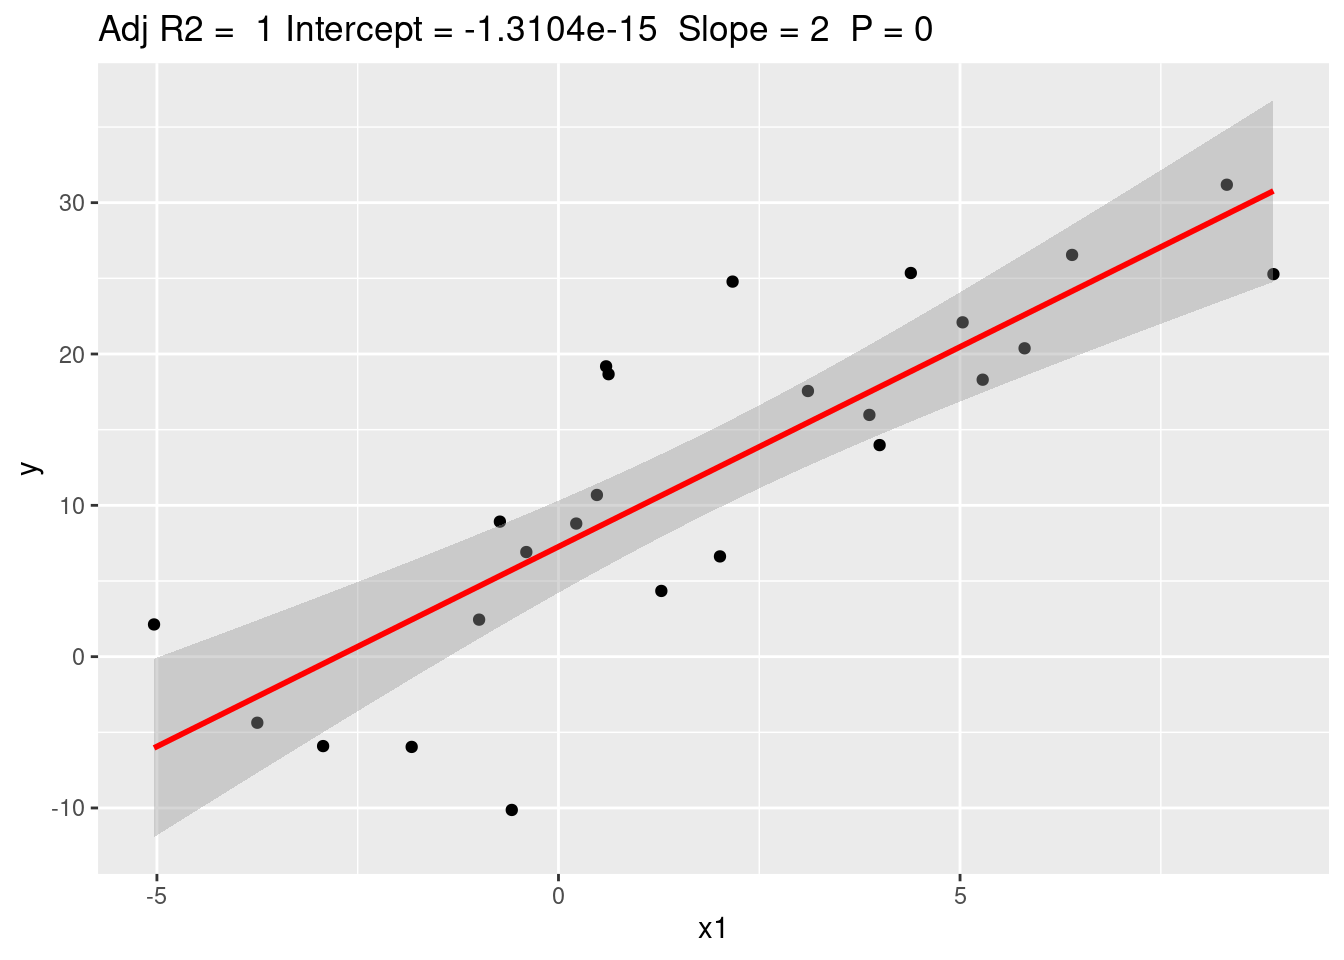
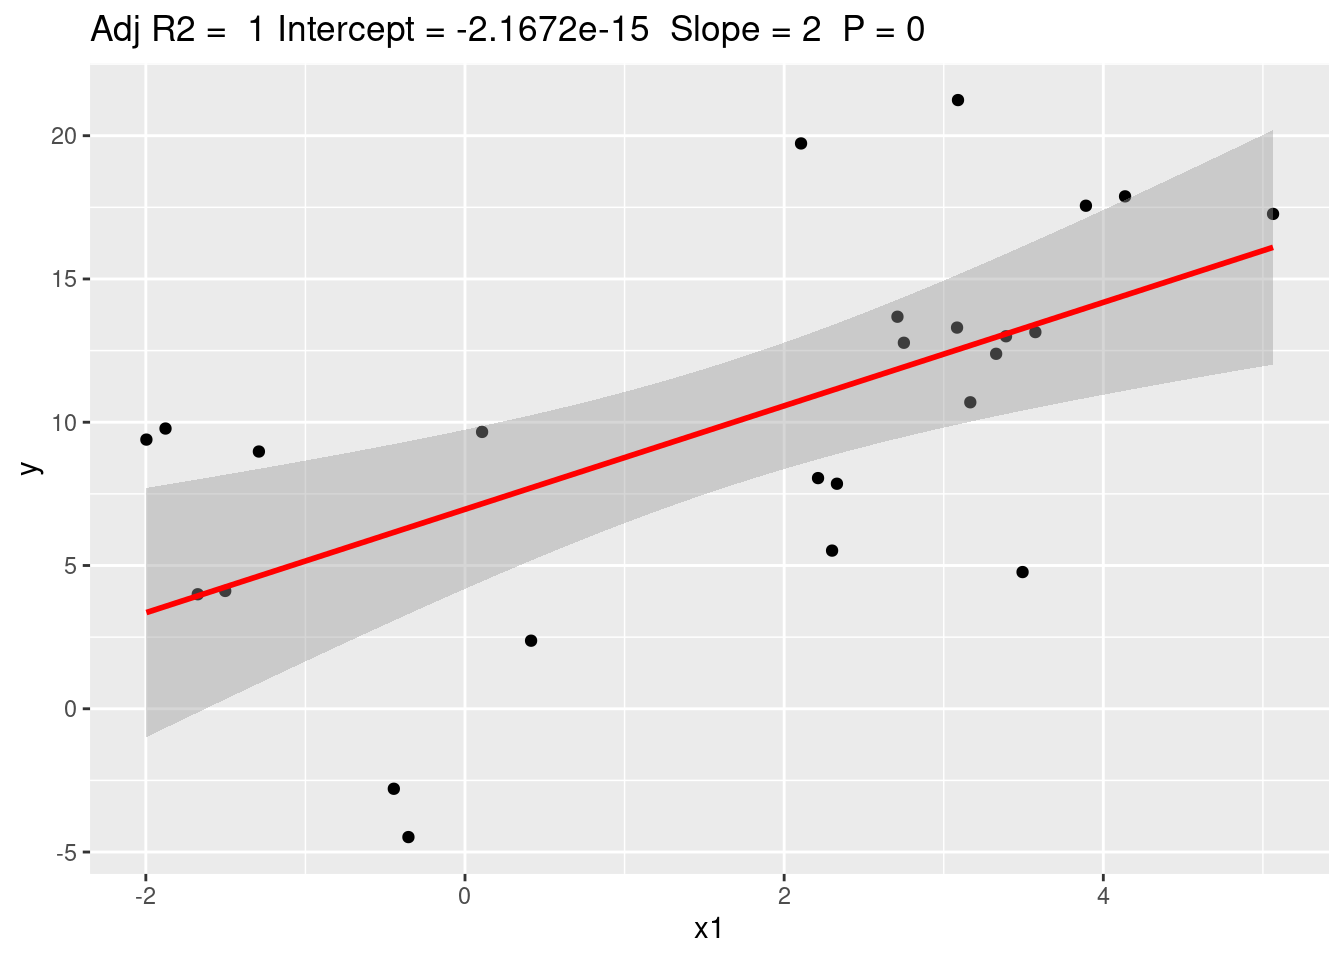
Built site for gh-pages

diff --git a/notes/index.html b/notes/index.html
@@ -272,7 +272,7 @@ ul.task-list li input[type="checkbox"] {
 
 </header>
 
-<p>This is a place to store and share some of my notes. This is still in progress, not sure how long might take me to update. <strong>Last updated at 2023-09-28 23:18:34</strong></p>
+<p>This is a place to store and share some of my notes. This is still in progress, not sure how long might take me to update. <strong>Last updated at 2023-10-03 16:18:00</strong></p>
 <p>If you find any error, please get in touch with me <a href="../index.html">here</a>.</p>
 
 
@@ -292,7 +292,7 @@ Description
 </tr>
 </thead>
 <tbody class="list">
-<tr data-index="0" data-listing-file-modified-sort="1695967048905" data-listing-reading-time-sort="1" data-listing-title-sort="Bioinformatics" data-listing-filename-sort="index.qmd">
+<tr data-index="0" data-listing-file-modified-sort="1696374980331" data-listing-reading-time-sort="1" data-listing-title-sort="Bioinformatics" data-listing-filename-sort="index.qmd">
 <td>
 <a href="../notes/bioinformatics/index.html" class="title listing-title">Bioinformatics</a>
 </td>
@@ -300,7 +300,7 @@ Description
 <span class="listing-description">Notes on Bioinformatics basics and tools</span>
 </td>
 </tr>
-<tr data-index="1" data-listing-file-modified-sort="1695967048905" data-listing-reading-time-sort="2" data-listing-title-sort="Conda" data-listing-filename-sort="index.qmd">
+<tr data-index="1" data-listing-file-modified-sort="1696374980331" data-listing-reading-time-sort="2" data-listing-title-sort="Conda" data-listing-filename-sort="index.qmd">
 <td>
 <a href="../notes/conda/index.html" class="title listing-title">Conda</a>
 </td>
@@ -308,7 +308,7 @@ Description
 <span class="listing-description">This…</span>
 </td>
 </tr>
-<tr data-index="2" data-listing-file-modified-sort="1695967048905" data-listing-reading-time-sort="1" data-listing-title-sort="Docker" data-listing-filename-sort="index.qmd">
+<tr data-index="2" data-listing-file-modified-sort="1696374980331" data-listing-reading-time-sort="1" data-listing-title-sort="Docker" data-listing-filename-sort="index.qmd">
 <td>
 <a href="../notes/docker/index.html" class="title listing-title">Docker</a>
 </td>
@@ -316,7 +316,7 @@ Description
 <span class="listing-description">This page stores some useful commands (with…</span>
 </td>
 </tr>
-<tr data-index="3" data-listing-file-modified-sort="1695967048905" data-listing-reading-time-sort="5" data-listing-title-sort="Git" data-listing-filename-sort="index.qmd">
+<tr data-index="3" data-listing-file-modified-sort="1696374980331" data-listing-reading-time-sort="5" data-listing-title-sort="Git" data-listing-filename-sort="index.qmd">
 <td>
 <a href="../notes/git/index.html" class="title listing-title">Git</a>
 </td>
@@ -324,7 +324,7 @@ Description
 <span class="listing-description">This page will explain some very frequent…</span>
 </td>
 </tr>
-<tr data-index="4" data-listing-file-modified-sort="1695967048905" data-listing-reading-time-sort="1" data-listing-title-sort="Linux" data-listing-filename-sort="index.qmd">
+<tr data-index="4" data-listing-file-modified-sort="1696374980331" data-listing-reading-time-sort="1" data-listing-title-sort="Linux" data-listing-filename-sort="index.qmd">
 <td>
 <a href="../notes/linux/index.html" class="title listing-title">Linux</a>
 </td>
@@ -332,7 +332,7 @@ Description
 <span class="listing-description">Notes on Linux usage</span>
 </td>
 </tr>
-<tr data-index="5" data-listing-file-modified-sort="1695967048905" data-listing-reading-time-sort="1" data-listing-title-sort="Makefile" data-listing-filename-sort="index.qmd">
+<tr data-index="5" data-listing-file-modified-sort="1696374980331" data-listing-reading-time-sort="1" data-listing-title-sort="Makefile" data-listing-filename-sort="index.qmd">
 <td>
 <a href="../notes/make/index.html" class="title listing-title">Makefile</a>
 </td>
@@ -340,7 +340,7 @@ Description
 <span class="listing-description">This is quite note for <code>Makefile</code>, explaining…<code></code></span>
 </td>
 </tr>
-<tr data-index="6" data-listing-file-modified-sort="1695967048905" data-listing-reading-time-sort="2" data-listing-title-sort="Markdown Syntax Guide" data-listing-filename-sort="index.qmd">
+<tr data-index="6" data-listing-file-modified-sort="1696374980331" data-listing-reading-time-sort="2" data-listing-title-sort="Markdown Syntax Guide" data-listing-filename-sort="index.qmd">
 <td>
 <a href="../notes/markdown/index.html" class="title listing-title">Markdown Syntax Guide</a>
 </td>
@@ -348,7 +348,7 @@ Description
 <span class="listing-description">This is a guide that’s also written in <strong>Markdown</strong>…<em></em></span>
 </td>
 </tr>
-<tr data-index="7" data-listing-file-modified-sort="1695967048905" data-listing-reading-time-sort="2" data-listing-title-sort="SSH" data-listing-filename-sort="index.qmd">
+<tr data-index="7" data-listing-file-modified-sort="1696374980331" data-listing-reading-time-sort="2" data-listing-title-sort="SSH" data-listing-filename-sort="index.qmd">
 <td>
 <a href="../notes/ssh/index.html" class="title listing-title">SSH</a>
 </td>
@@ -356,7 +356,7 @@ Description
 <span class="listing-description">This is…</span>
 </td>
 </tr>
-<tr data-index="8" data-listing-file-modified-sort="1695967048905" data-listing-reading-time-sort="1" data-listing-title-sort="Shell" data-listing-filename-sort="index.qmd">
+<tr data-index="8" data-listing-file-modified-sort="1696374980331" data-listing-reading-time-sort="1" data-listing-title-sort="Shell" data-listing-filename-sort="index.qmd">
 <td>
 <a href="../notes/shell/index.html" class="title listing-title">Shell</a>
 </td>

diff --git a/other/index.html b/other/index.html
@@ -122,7 +122,8 @@ ul.task-list li input[type="checkbox"] {
     <h2 id="toc-title">On this page</h2>
    
   <ul>
-  <li><a href="#code-information" id="toc-code-information" class="nav-link active" data-scroll-target="#code-information">Code Information</a></li>
+  <li><a href="#generic-resources" id="toc-generic-resources" class="nav-link active" data-scroll-target="#generic-resources">Generic resources</a></li>
+  <li><a href="#code-resources" id="toc-code-resources" class="nav-link" data-scroll-target="#code-resources">Code Resources</a></li>
   <li><a href="#slide-presentations" id="toc-slide-presentations" class="nav-link" data-scroll-target="#slide-presentations">Slide Presentations</a></li>
   </ul>
 <div class="toc-actions"><div><i class="bi bi-github"></i></div><div class="action-links"><p><a href="https://github.com/tonyliang19/tonyliang19.github.io/edit/main/other/index.qmd" class="toc-action">Edit this page</a></p><p><a href="https://github.com/tonyliang19/tonyliang19.github.io/issues/new" class="toc-action">Report an issue</a></p></div></div></nav>
@@ -164,9 +165,17 @@ ul.task-list li input[type="checkbox"] {
 }
 </style>
 </div>
-<p>See below for previous <a href="#presentations">presentations</a> done, or view interesting explanations of behaviors of some programming languages, and linux related stuff.</p>
-<section id="code-information" class="level3">
-<h3 class="anchored" data-anchor-id="code-information">Code Information</h3>
+<p>See below for previous <a href="#slide-presentations">presentations</a> done, or view interesting explanations of behaviors of some programming languages, and linux related stuff.</p>
+<p>Moreover, here are also some generic resources on applying jobs, school, or posts that I founded useful to myself. Feel free to checkout those below.</p>
+<section id="generic-resources" class="level3">
+<h3 class="anchored" data-anchor-id="generic-resources">Generic resources</h3>
+<ul>
+<li><a href="https://dajmcdon.github.io/grad-school-pointers">Advice on applying to graduate school (slides)</a></li>
+<li><a href="https://www.stat.cmu.edu/~aramdas/checklists/aadi-balance-checklist.pdf">Work-school-life balance (pdf)</a></li>
+</ul>
+</section>
+<section id="code-resources" class="level3">
+<h3 class="anchored" data-anchor-id="code-resources">Code Resources</h3>
 <hr>
 <div class="tabset-margin-container"></div><div class="panel-tabset">
 <ul class="nav nav-tabs" role="tablist"><li class="nav-item" role="presentation"><a class="nav-link active" id="tabset-1-1-tab" data-bs-toggle="tab" data-bs-target="#tabset-1-1" role="tab" aria-controls="tabset-1-1" aria-selected="true">Linux</a></li><li class="nav-item" role="presentation"><a class="nav-link" id="tabset-1-2-tab" data-bs-toggle="tab" data-bs-target="#tabset-1-2" role="tab" aria-controls="tabset-1-2" aria-selected="false">R</a></li><li class="nav-item" role="presentation"><a class="nav-link" id="tabset-1-3-tab" data-bs-toggle="tab" data-bs-target="#tabset-1-3" role="tab" aria-controls="tabset-1-3" aria-selected="false">Git</a></li><li class="nav-item" role="presentation"><a class="nav-link" id="tabset-1-4-tab" data-bs-toggle="tab" data-bs-target="#tabset-1-4" role="tab" aria-controls="tabset-1-4" aria-selected="false">Conda</a></li></ul>

diff --git a/demos/index.html b/demos/index.html
@@ -256,7 +256,7 @@ Description
 </tr>
 </thead>
 <tbody class="list">
-<tr data-index="0" data-listing-file-modified-sort="1695967048905" data-listing-reading-time-sort="2" data-listing-title-sort="Fit a LR model" data-listing-filename-sort="fit_lr.qmd">
+<tr data-index="0" data-listing-file-modified-sort="1696374980331" data-listing-reading-time-sort="2" data-listing-title-sort="Fit a LR model" data-listing-filename-sort="fit_lr.qmd">
 <td>
 <a href="../demos/R/fit_lr.html" class="title listing-title">Fit a LR model</a>
 </td>
@@ -264,7 +264,7 @@ Description
 <span class="listing-description">R is good in the stat, bio side.</span>
 </td>
 </tr>
-<tr data-index="1" data-listing-file-modified-sort="1695967048905" data-listing-reading-time-sort="1" data-listing-title-sort="Python Code Demo" data-listing-filename-sort="python_demo.qmd">
+<tr data-index="1" data-listing-file-modified-sort="1696374980331" data-listing-reading-time-sort="1" data-listing-title-sort="Python Code Demo" data-listing-filename-sort="python_demo.qmd">
 <td>
 <a href="../demos/python/python_demo.html" class="title listing-title">Python Code Demo</a>
 </td>

diff --git a/index.html b/index.html
@@ -147,7 +147,7 @@ ul.task-list li input[type="checkbox"] {
 <div class="[#bio]">
 <p>My name is Tony Liang, currently undergraduate Math and Statistics Student at University of British Columbia (UBC) in Vancouver, Canada. I am originally from Kaiping, China (<a href="https://www.google.com/maps/place/Jinjizhen,+Kaiping,+Jiangmen,+Guangdong+Province,+China,+529386/@22.1581094,112.4805352,15z/data=!3m1!4b1!4m15!1m8!3m7!1s0x3401fc24882c4c1b:0x6a1305be97b802a9!2sKaiping,+Jiangmen,+Guangdong+Province,+China!3b1!8m2!3d22.3770199!4d112.69828!16zL20vMDY3eWN5!3m5!1s0x36aa0cc1c74074ab:0xa667fe9eb814f477!8m2!3d22.15811!4d112.48929!16s%2Fg%2F1hb_fvwxk">here</a>). But, I have spent most of the times living in Santo Domingo, Dominican Republic. So I know how to hablar en español, pero un poquito machucado.</p>
 <p>当然中文也会一点点(这已经是我所有的水平了)。</p>
-<p>Last updated at 2023-09-28 23:18:25</p>
+<p>Last updated at 2023-10-03 16:17:52</p>
 <p>Please dont’t hesitate to contact me or just to chat, you could open any of my links above.</p>
 </div>
 <div class="grid">

diff --git a/notes/linux/index.html b/notes/linux/index.html
@@ -298,7 +298,7 @@ Description
 </tr>
 </thead>
 <tbody class="list">
-<tr data-index="0" data-listing-file-modified-sort="1695967048905" data-listing-reading-time-sort="2" data-listing-title-sort="Cheatsheet" data-listing-filename-sort="cheatsheet.md">
+<tr data-index="0" data-listing-file-modified-sort="1696374980331" data-listing-reading-time-sort="2" data-listing-title-sort="Cheatsheet" data-listing-filename-sort="cheatsheet.md">
 <td>
 <a href="../../notes/linux/cheatsheet.html" class="title listing-title">Cheatsheet</a>
 </td>
@@ -306,7 +306,7 @@ Description
 <span class="listing-description">Useful commands in Linux Bash</span>
 </td>
 </tr>
-<tr data-index="1" data-listing-file-modified-sort="1695967048905" data-listing-reading-time-sort="1" data-listing-title-sort="Other" data-listing-filename-sort="other.md">
+<tr data-index="1" data-listing-file-modified-sort="1696374980331" data-listing-reading-time-sort="1" data-listing-title-sort="Other" data-listing-filename-sort="other.md">
 <td>
 <a href="../../notes/linux/other.html" class="title listing-title">Other</a>
 </td>

diff --git a/demos/R/fit_lr.html b/demos/R/fit_lr.html
@@ -259,7 +259,7 @@ Note
 <span id="cb2-3"><a href="#cb2-3" aria-hidden="true" tabindex="-1"></a><span class="fu">print</span>(<span class="fu">mean</span>(x))</span></code><button title="Copy to Clipboard" class="code-copy-button"><i class="bi"></i></button></pre></div>
 </details>
 <div class="cell-output cell-output-stdout">
-<pre><code>[1] -0.1890762</code></pre>
+<pre><code>[1] -0.3907833</code></pre>
 </div>
 </div>
 <hr>
@@ -280,7 +280,7 @@ Note
 </details>
 <div class="cell-output cell-output-stdout">
 <pre><code>  (Intercept)            x1            x2 
--1.310413e-15  2.000000e+00  3.000000e+00 </code></pre>
+-2.167242e-15  2.000000e+00  3.000000e+00 </code></pre>
 </div>
 </div>
 <hr>

diff --git a/notes/bioinformatics/index.html b/notes/bioinformatics/index.html
@@ -299,7 +299,7 @@ Description
 </tr>
 </thead>
 <tbody class="list">
-<tr data-index="0" data-listing-file-modified-sort="1695967048905" data-listing-reading-time-sort="4" data-listing-title-sort="Multi-Omics" data-listing-filename-sort="mult-omics.qmd">
+<tr data-index="0" data-listing-file-modified-sort="1696374980331" data-listing-reading-time-sort="4" data-listing-title-sort="Multi-Omics" data-listing-filename-sort="mult-omics.qmd">
 <td>
 <a href="../../notes/bioinformatics/mult-omics.html" class="title listing-title">Multi-Omics</a>
 </td>
